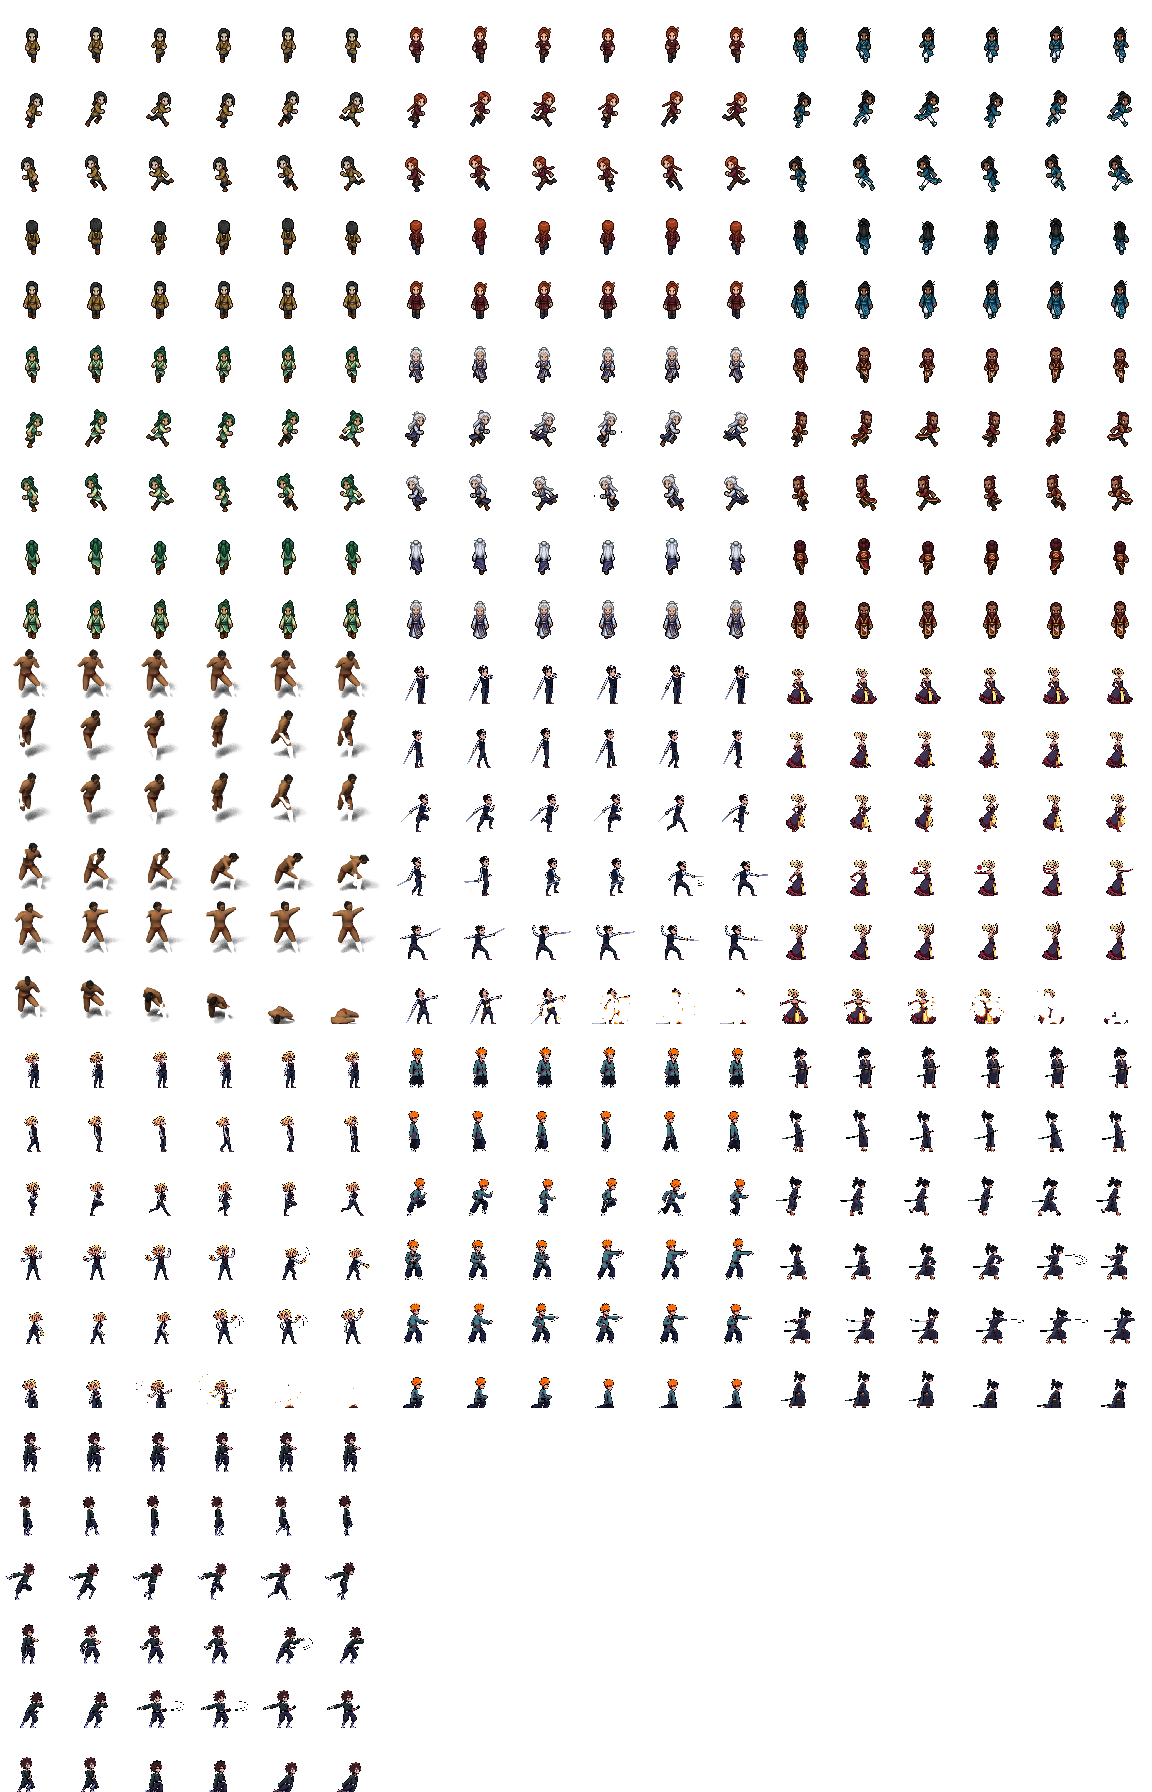
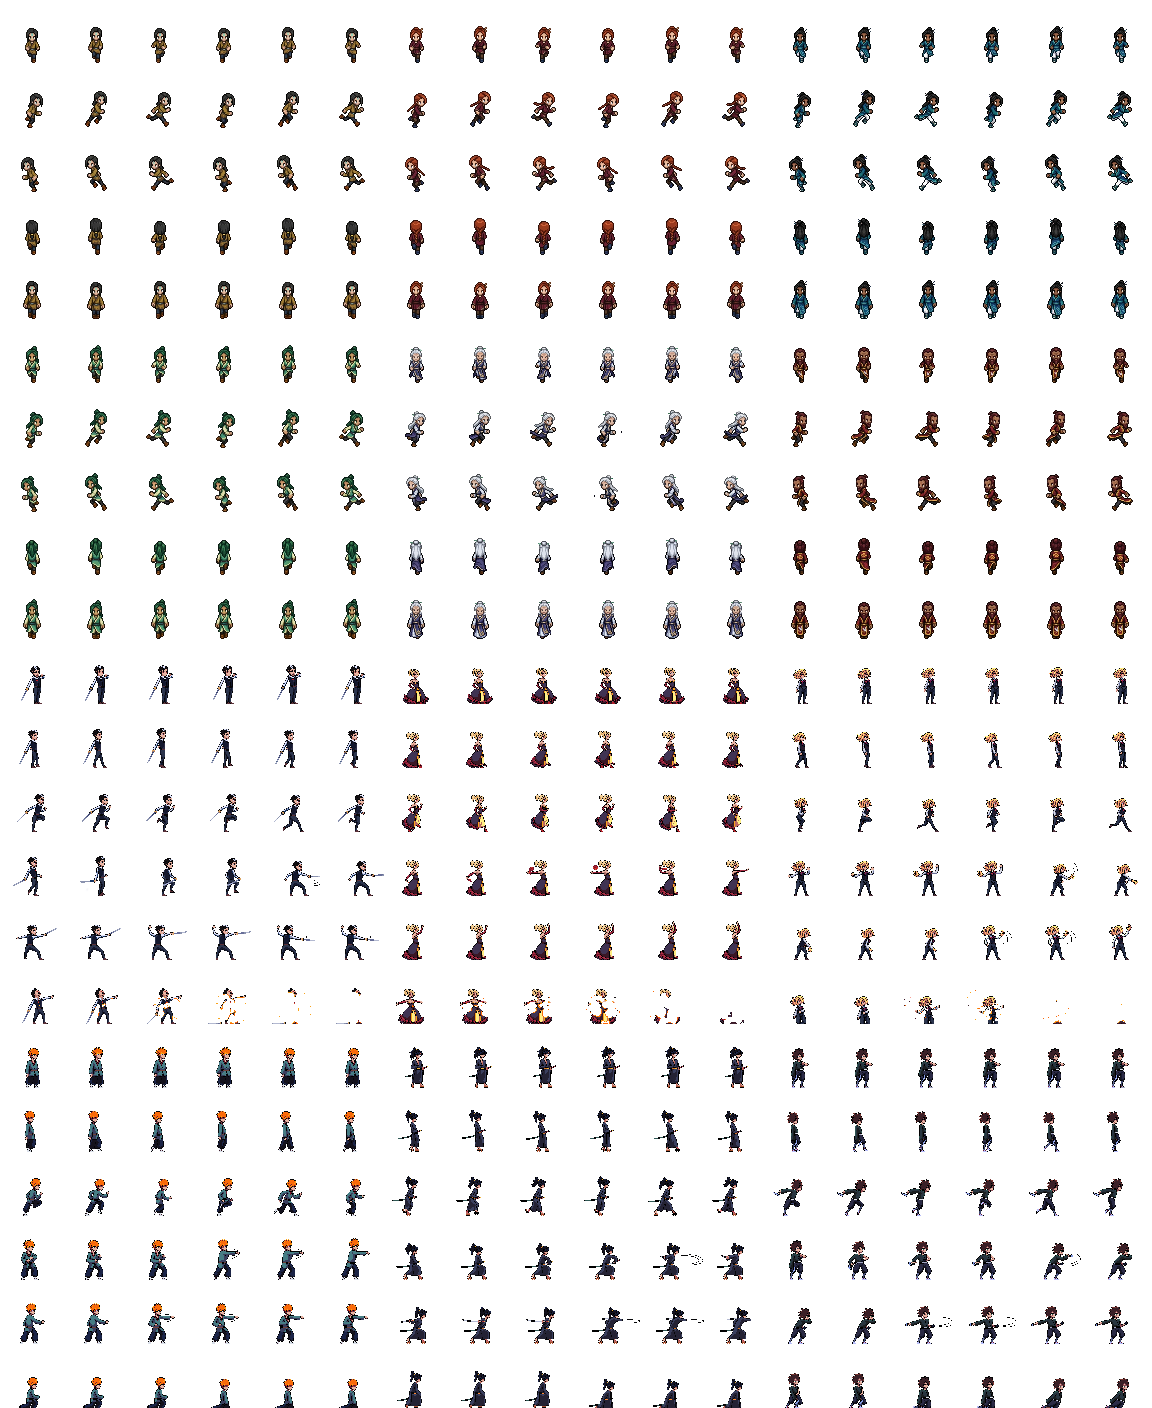
Revert "仙岛寻踪：新增 51 号主角「帝国冒险者」（flare-game 官方角色）"
This reverts commit e2c9067fb0ac5320cf9fdb7cf740f4314456db0e.

diff --git a/games/immortal-isles/js/game.js b/games/immortal-isles/js/game.js
@@ -60,8 +60,7 @@
   var FOE_LEASH_PAD = 4;    // 领地半径 = 仇恨半径 + 这个值：怪最多被引到离巢这么远，再远就回巢待命
   // 文件名带版本号：浏览器会缓存同名图片，换精灵时必须换名，否则玩家仍看到旧图
   // 主角外形可切换：1/5/10/14/18/20 取自「武侠修仙免费包」；31~33 取自 CraftPix 免费吸血鬼包；
-  // 41~43 取自 CraftPix 免费忍者包（Fighter / Samurai / Shinobi）；
-  // 51 取自 flare-game 官方默认角色（分层素材由 build_chars_atlas.py 合成，CC-BY-SA 3.0）。
+  // 41~43 取自 CraftPix 免费忍者包（Fighter / Samurai / Shinobi）。
   // 三套素材统一到同一规格（6 列 × 5 行 @64px），所以能塞进同一张 chars_atlas 直接切换。
   // 1 号是该包官方 Godot 示例的默认角色；其余几个同时兼任 NPC，不重复打包素材。
   // 外部两包原图都是 128px 横版侧视，已按 50% 降采样对齐（实高 35~42px，与主角同量级）。
@@ -82,8 +81,7 @@
     { n: 33, file: 'vamp_33.png', label: '33', nick: '33 血族少女', side: true },
     { n: 41, file: 'ninja_41.png', label: '41', nick: '41 东瀛格斗家', side: true },
     { n: 42, file: 'ninja_42.png', label: '42', nick: '42 东瀛武士', side: true },
-    { n: 43, file: 'ninja_43.png', label: '43', nick: '43 东瀛忍者', side: true },
-    { n: 51, file: 'flare_51.png', label: '51', nick: '51 帝国冒险者', side: true }  // flare-game 官方角色，tools/build_chars_atlas.py 分层合成（CC-BY-SA 3.0）
+    { n: 43, file: 'ninja_43.png', label: '43', nick: '43 东瀛忍者', side: true }
   ];
   var PLAYER_CHAR = HERO_OPTIONS[0].file;      // 主角当前用的动作表（chars_atlas 里的 key）
   var PLAYER_SRC = PLAYER_CHAR;                // 主角图集 key（setHero / buildHeroUI 会改写；先给默认值，避免严格模式下未声明报错）
@@ -354,7 +352,7 @@
       { url: 'assets/chars_atlas.webp?v=1', atlas: 'chars', weight: 183, label: '载入人物动作' },
       { url: 'assets/foes_atlas.webp?v=1', atlas: 'foes', weight: 680, label: '载入妖兽图鉴' },
       { url: 'assets/tiles_atlas.json?v=5', json: true, weight: 2, label: '读取地貌索引' },
-      { url: 'assets/chars_atlas.json?v=4', json: true, weight: 1, label: '读取人物索引' },
+      { url: 'assets/chars_atlas.json?v=3', json: true, weight: 1, label: '读取人物索引' },
       { url: 'assets/foes_atlas.json?v=2', json: true, weight: 2, label: '读取妖兽索引' },
       { url: 'assets/heroes.json?v=1', json: true, weight: 1, label: '读取角色清单' },
       { url: 'assets/beasts.json?v=2', json: true, weight: 2, label: '读取怪物图录' }

diff --git a/games/immortal-isles/index.html b/games/immortal-isles/index.html
@@ -452,6 +452,6 @@
   </div>
 </div>
 
-<script src="js/game.js?v=26"></script>
+<script src="js/game.js?v=25"></script>
 </body>
 </html>

diff --git a/games/immortal-isles/tools/build_chars_atlas.py b/games/immortal-isles/tools/build_chars_atlas.py
@@ -147,6 +147,7 @@ def build_sheet(folder, cell):
         cells = load_cells(p, cell)
         act_cells[key] = cells
         counts[key] = len(cells)
+
     # 统一平移锚点：以 idle 的内容中心落回格中央为准
     dx = 0
     for probe_key in ('idle', 'walk'):
@@ -179,109 +180,6 @@ def build_sheet(folder, cell):
     return sheet, counts, dx
 
 
-# ---------------- Flare 分层角色包（type=flare-layered）----------------
-# flare-game（github.com/flareteam/flare-game，CC-BY-SA 3.0）的角色是分层素材：
-# legs/chest/head 各一张整图集，帧矩形在 animations/avatar/male/<层>.txt：
-#   frame=帧序,方向,x,y,w,h,锚x,锚y   （注意前两字段是「帧序,方向」，不是「方向,帧序」）
-# 8 方向；这里取引擎右向合成 6 动作行，与 CraftPix 侧视包同一规格落库。
-FLARE_ACTS = [('idle', 'stance'), ('walk', 'run'), ('run', 'run'),
-              ('atkA', 'swing'), ('atkB', 'cast'), ('dead', 'die')]
-FLARE_DIR_RIGHT = 5   # flare-engine Utils.cpp calcDirection：向右移动 -> dir=5
-
-
-def parse_flare_anim(path):
-    """解析 flare 动画 txt -> {anim: {(帧序,方向): [x,y,w,h,ox,oy]}}"""
-    anims, cur = {}, None
-    for line in open(path, encoding='utf-8'):
-        line = line.strip()
-        if not line or line.startswith('#'):
-            continue
-        if line[0] == '[' and line[-1] == ']':
-            cur = line[1:-1]
-            anims[cur] = {}
-            continue
-        k, _, v = line.partition('=')
-        k = k.strip()
-        if cur is None:
-            continue
-        if k == 'frames':
-            anims[cur]['_n'] = int(v)
-        elif k == 'frame':
-            p = [int(x) for x in v.split(',')]
-            anims[cur][(p[0], p[1])] = p[2:]
-    return anims
-
-
-def build_flare_sheet(srcdir):
-    """Flare 分层角色 -> 384x384 的 6列x6行 动作表。返回 (sheet, 每动作帧数)。"""
-    lay_names = ['default_legs', 'default_chest', 'head_short']
-    srcs = {n: Image.open(os.path.join(srcdir, n + '.png')).convert('RGBA') for n in lay_names}
-    anims = {n: parse_flare_anim(os.path.join(srcdir, n + '.txt')) for n in lay_names}
-
-    CAN, AX, AY = 512, 256, 500   # 大画布 + 锚点（脚底原点）位置
-
-    def comp(aname, idx):
-        """按锚点把三层合成一帧（腿最底、头最顶），锚点落在 (AX,AY)。"""
-        img = Image.new('RGBA', (CAN, CAN), (0, 0, 0, 0))
-        for ln in lay_names:
-            c = anims[ln].get(aname, {}).get((idx, FLARE_DIR_RIGHT))
-            if not c:
-                continue
-            x, y, w, h, ox, oy = c
-            if w <= 2 or h <= 2:
-                continue
-            img.alpha_composite(srcs[ln].crop((x, y, x + w, y + h)), (AX - ox, AY - oy))
-        return img
-
-    comp_frames = {}
-    for key, aname in FLARE_ACTS:
-        ch = anims['default_chest'][aname]
-        n = max(i for (i, d) in ch if d == FLARE_DIR_RIGHT) + 1
-        frames = [comp(aname, i) for i in range(n)]
-        if key == 'dead' and n >= 3:
-            # 与 CraftPix 包同策略：剔掉「倒地后消散」的尾帧，让动画停在躺平而不是消失
-            hh = []
-            for f in frames:
-                b = f.getchannel('A').getbbox()
-                hh.append((b[3] - b[1]) if b else 0)
-            hmax = max(hh) or 1
-            keep = [i for i, v in enumerate(hh) if v >= hmax * 0.28]
-            if len(keep) >= 2:
-                frames = [frames[i] for i in keep]
-        comp_frames[key] = frames
-
-    # 所有帧共用同一裁剪窗（帧间相对位移完整保留），整体缩到 128 格再降采样 64
-    boxes = [f.getchannel('A').getbbox() for fl in comp_frames.values() for f in fl]
-    boxes = [b for b in boxes if b]
-    if not boxes:
-        raise RuntimeError('Flare 素材合成后全透明：%s' % srcdir)
-    L = min(b[0] for b in boxes); T = min(b[1] for b in boxes)
-    R = max(b[2] for b in boxes); B = max(b[3] for b in boxes)
-    bw, bh = R - L, B - T
-    k = min(1.0, 120.0 / bw, 120.0 / bh)
-    sw, sh = max(1, round(bw * k / 2)), max(1, round(bh * k / 2))   # 64 格空间
-
-    # 64 格内摆放：脚底贴格底；水平以 idle 内容中心为准（钳回格内防裁剪）
-    idle_bbs = [f.getchannel('A').getbbox() for f in comp_frames['idle']]
-    idle_bbs = [b for b in idle_bbs if b]
-    icx = (min(b[0] for b in idle_bbs) + max(b[2] for b in idle_bbs)) / 2.0 - L
-    sx = max(0, min(CELL_DST - sw, int(round(CELL_DST / 2 - icx * k / 2))))
-    sy = CELL_DST - sh
-
-    sheet = Image.new('RGBA', (COLS * CELL_DST, len(FLARE_ACTS) * CELL_DST), (0, 0, 0, 0))
-    counts = {}
-    for row, (key, _an) in enumerate(FLARE_ACTS):
-        counts[key] = len(comp_frames[key])
-        picks = even_indices(len(comp_frames[key]), COLS)
-        for col in range(COLS):
-            fr = comp_frames[key][picks[col]].crop((L, T, R, B)).resize((sw, sh), Image.NEAREST)
-            sheet.alpha_composite(fr, (sx + col * CELL_DST, sy + row * CELL_DST))
-    if not (H_MIN <= sh <= H_MAX):
-        print('      WARN  Flare 角色缩放后内容高 %d px（常规 %d~%d），体型可能与现有角色不搭'
-              % (sh, H_MIN, H_MAX))
-    return sheet, counts
-
-
 def main():
     check_only = '--check' in sys.argv
     man = json.load(open(MANIFEST, encoding='utf-8'))
@@ -290,22 +188,7 @@ def main():
     jobs, fatal, warns_all = [], [], []
     seen_n = {}
     for pk in packs:
-        print('###### %s  (%s)' % (pk.get('name', pk.get('id')), pk.get('dir') or pk.get('src')))
-        if pk.get('type') == 'flare-layered':
-            # Flare 分层包：源在 .workbuddy/（与 sucai/ 同为 gitignore 的原始素材）
-            srcdir = os.path.join(BASE, pk['src'])
-            if not os.path.isdir(srcdir):
-                fatal.append('Flare 素材目录不存在：%s' % pk.get('src'))
-                print('      目录不存在，跳过')
-                continue
-            for h in pk['heroes']:
-                tag = '%s %s' % (h.get('label'), h.get('nick', ''))
-                if h['n'] in seen_n:
-                    fatal.append('编号 %d 重复（%s 与 %s）' % (h['n'], seen_n[h['n']], tag))
-                seen_n[h['n']] = tag
-                print('  %s' % tag)
-                jobs.append((pk, h, srcdir, None))
-            continue
+        print('###### %s  (%s)' % (pk.get('name', pk.get('id')), pk.get('dir')))
         pd = os.path.join(SUCAI, pk['dir'])
         if not os.path.isdir(pd):
             fatal.append('素材包目录不存在：sucai/%s' % pk['dir'])
@@ -363,27 +246,16 @@ def main():
     for i, (pk, h, folder, info) in enumerate(jobs):
         r, c = divmod(i, ROW_W)
         x, y = c * COLS * CELL_DST, base.height + r * sheeth
+        sheet, counts, dx = build_sheet(folder, pk.get('cell', 128))
+        out.alpha_composite(sheet, (x, y))
         key = '%s_%d.png' % (pk.get('prefix', pk['id']), h['n'])
         rect[key] = [x, y, COLS * CELL_DST, sheeth]
         heroes.append({'n': h['n'], 'file': key, 'label': h.get('label', str(h['n'])),
                        'nick': h.get('nick'), 'side': True, 'pack': pk.get('id')})
-        if pk.get('type') == 'flare-layered':
-            sheet, counts = build_flare_sheet(folder)
-            trace = ' '.join('%s=%d' % (k2, counts[k2]) for k2, _f, _c, _n in ACTS)
-            print('  + %-14s flare分层合成  %s' % (key, trace))
-        else:
-            sheet, counts, dx = build_sheet(folder, pk.get('cell', 128))
-            trace = ' '.join('%s=%d' % (k2, counts[k2]) for k2, _f, _c, _n in ACTS)
-            print('  + %-14s dx=%+d  %s' % (key, dx, trace))
-        out.alpha_composite(sheet, (x, y))
+        trace = ' '.join('%s=%d' % (k, counts[k]) for k, _f, _c, _n in ACTS)
+        print('  + %-14s dx=%+d  %s' % (key, dx, trace))
 
     out.save(OUT_PNG, optimize=True)
-    try:
-        out.save(os.path.join(ASSETS, 'chars_atlas.webp'), 'WEBP', quality=88, method=6)
-        print('chars_atlas.webp %.1fKB'
-              % (os.path.getsize(os.path.join(ASSETS, 'chars_atlas.webp')) / 1024))
-    except Exception as e:   # webp 失败必须处理：引擎加载的是 webp，旧 webp 会与新 json 不匹配
-        sys.exit('chars_atlas.webp 生成失败（引擎将加载到过期图集）：%s' % e)
     json.dump(rect, open(OUT_JSON, 'w', encoding='utf-8'),
               ensure_ascii=False, separators=(',', ':'))
     json.dump({
